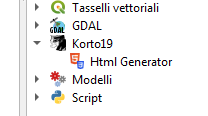
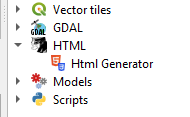
upload

Changed region(s): [[0.1579, 0.0, 0.8421, 0.931], [0.0, 0.0, 0.1316, 1.0]]

diff --git a/HTML_Generator_provider.py b/HTML_Generator_provider.py
@@ -9,7 +9,7 @@
                               -------------------
         begin                : 2020-11-18
         copyright            : (C) 2020 by Giulio
-        email                : g@g.com
+        email                : giulio.fattori@tin.it
  ***************************************************************************/
 
 /***************************************************************************
@@ -24,7 +24,7 @@
 
 __author__ = 'Giulio Fattori'
 __date__ = '2020-11-18'
-__copyright__ = '(C) 2020 by GF'
+__copyright__ = '(C) 2020 by Korto19'
 
 # This will get replaced with a git SHA1 when you do a git archive
 
@@ -33,7 +33,7 @@ __revision__ = '$Format:%H$'
 from qgis.core import QgsProcessingProvider
 from .HTML_Generator_algorithm import HTML_GeneratorAlgorithm
 
-#icona gruppo in processing
+#icona in processing (livello zero)
 import os
 import inspect
 from qgis.PyQt.QtGui import QIcon
@@ -67,7 +67,7 @@ class HTML_GeneratorProvider(QgsProcessingProvider):
         string should be a unique, short, character only string, eg "qgis" or
         "gdal". This string should not be localised.
         """
-        return 'Korto19'
+        return 'HTML'
 
     def name(self):
         """
@@ -76,7 +76,7 @@ class HTML_GeneratorProvider(QgsProcessingProvider):
 
         This string should be short (e.g. "Lastools") and localised.
         """
-        return self.tr('Korto19')
+        return self.tr('HTML')
 
         #icona del gruppo in processing
     def icon(self):

diff --git a/HTML_Generator_algorithm.py b/HTML_Generator_algorithm.py
@@ -9,7 +9,7 @@
                               -------------------
         begin                : 2020-11-18
         copyright            : (C) 2020 by Giulio
-        email                : g@g.com
+        email                : giulio.fattori@tin.it
  ***************************************************************************/
 
 /***************************************************************************
@@ -24,7 +24,7 @@
 
 __author__ = 'Giulio Fattori'
 __date__ = '2020-11-18'
-__copyright__ = '(C) 2020 by GF'
+__copyright__ = '(C) 2020 by Korto19'
 
 # This will get replaced with a git SHA1 when you do a git archive
 
@@ -94,7 +94,7 @@ class HTML_GeneratorAlgorithm(QgsProcessingAlgorithm):
         lowercase alphanumeric characters only and no spaces or other
         formatting characters.
         """
-        return 'Html Generator v4.00'
+        return 'Html Generator'
 
     def displayName(self):
         """

diff --git a/HTML_Generator.py b/HTML_Generator.py
@@ -9,7 +9,7 @@
                               -------------------
         begin                : 2020-11-18
         copyright            : (C) 2020 by Giulio
-        email                : g@g.com
+        email                : giulio.fattori@tin.it
  ***************************************************************************/
 
 /***************************************************************************
@@ -24,7 +24,7 @@
 
 __author__ = 'Giulio Fattori'
 __date__ = '2020-11-18'
-__copyright__ = '(C) 2020 by GF'
+__copyright__ = '(C) 2020 by Korto19'
 
 # This will get replaced with a git SHA1 when you do a git archive
 

diff --git a/__init__.py b/__init__.py
@@ -8,7 +8,7 @@
                               -------------------
         begin                : 2020-11-18
         copyright            : (C) 2020 by Giulio
-        email                : g@g.com
+        email                : giulio.fattori@tin.it
  ***************************************************************************/
 
 /***************************************************************************
@@ -24,7 +24,7 @@
 
 __author__ = 'Giulio Fattori'
 __date__ = '2020-11-18'
-__copyright__ = '(C) 2020 by GF'
+__copyright__ = '(C) 2020 by Korto19'
 
 
 # noinspection PyPep8Naming
